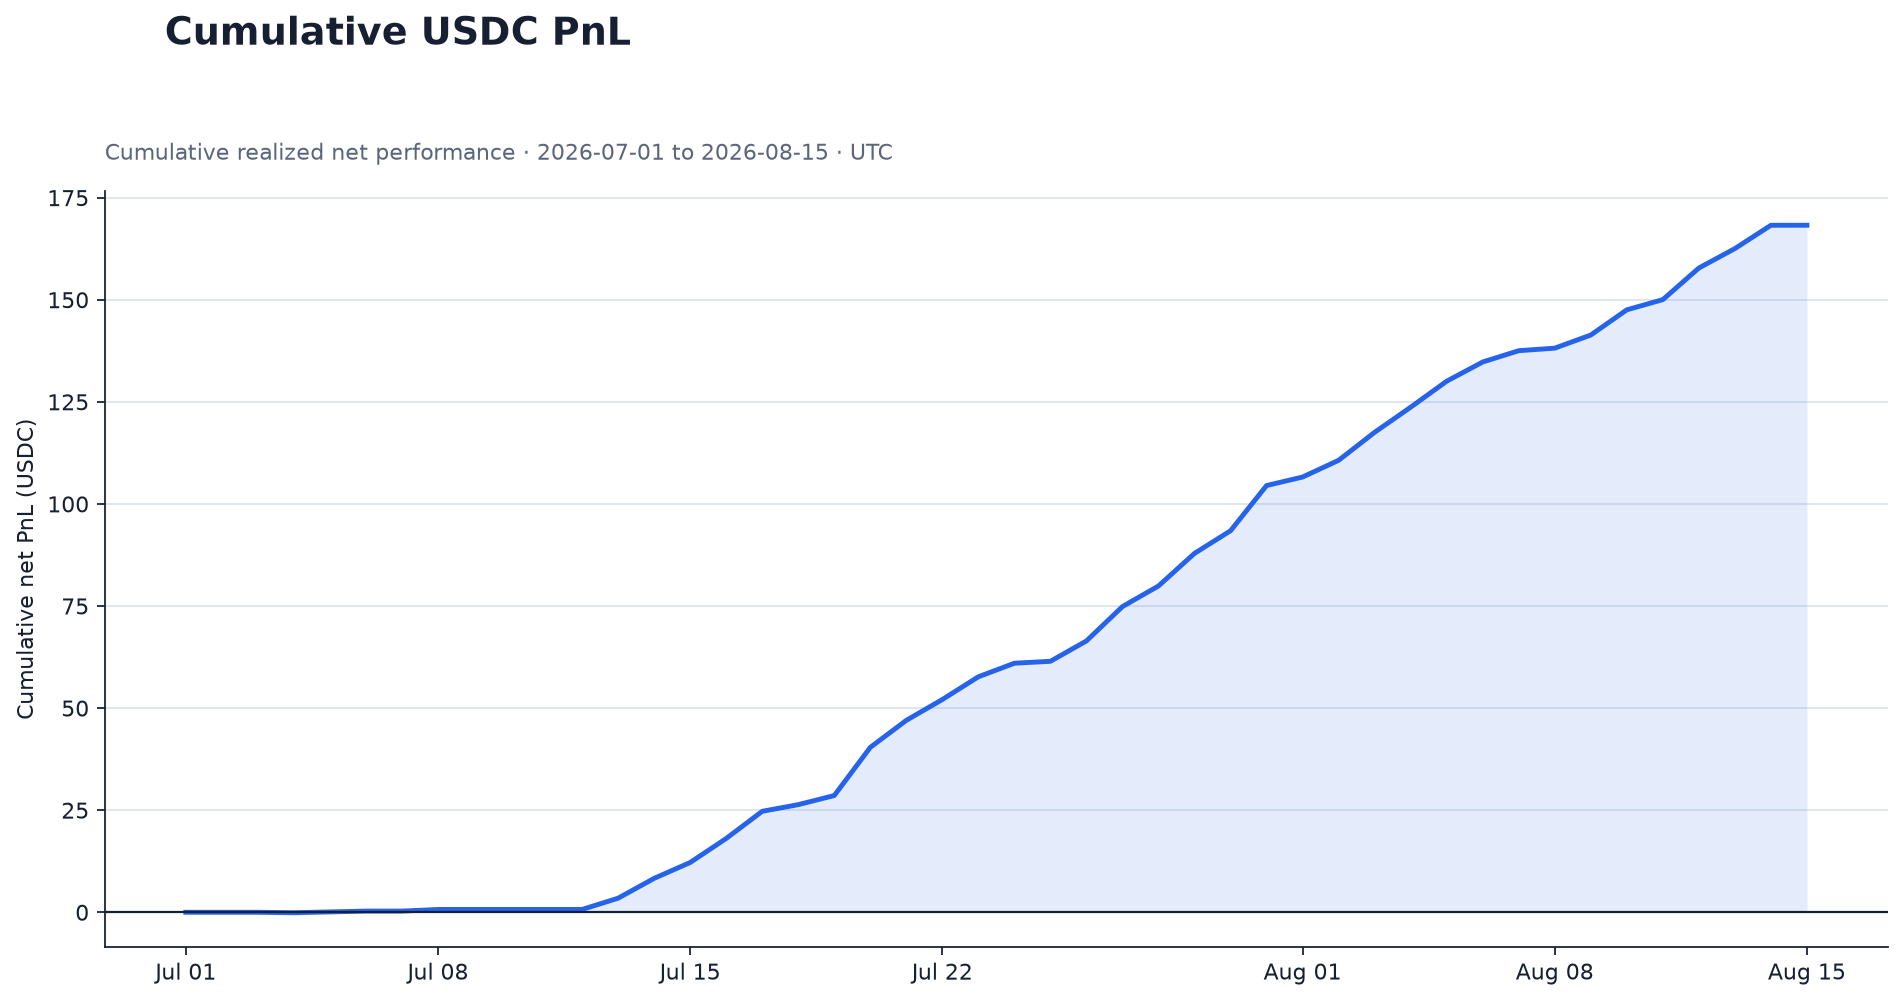
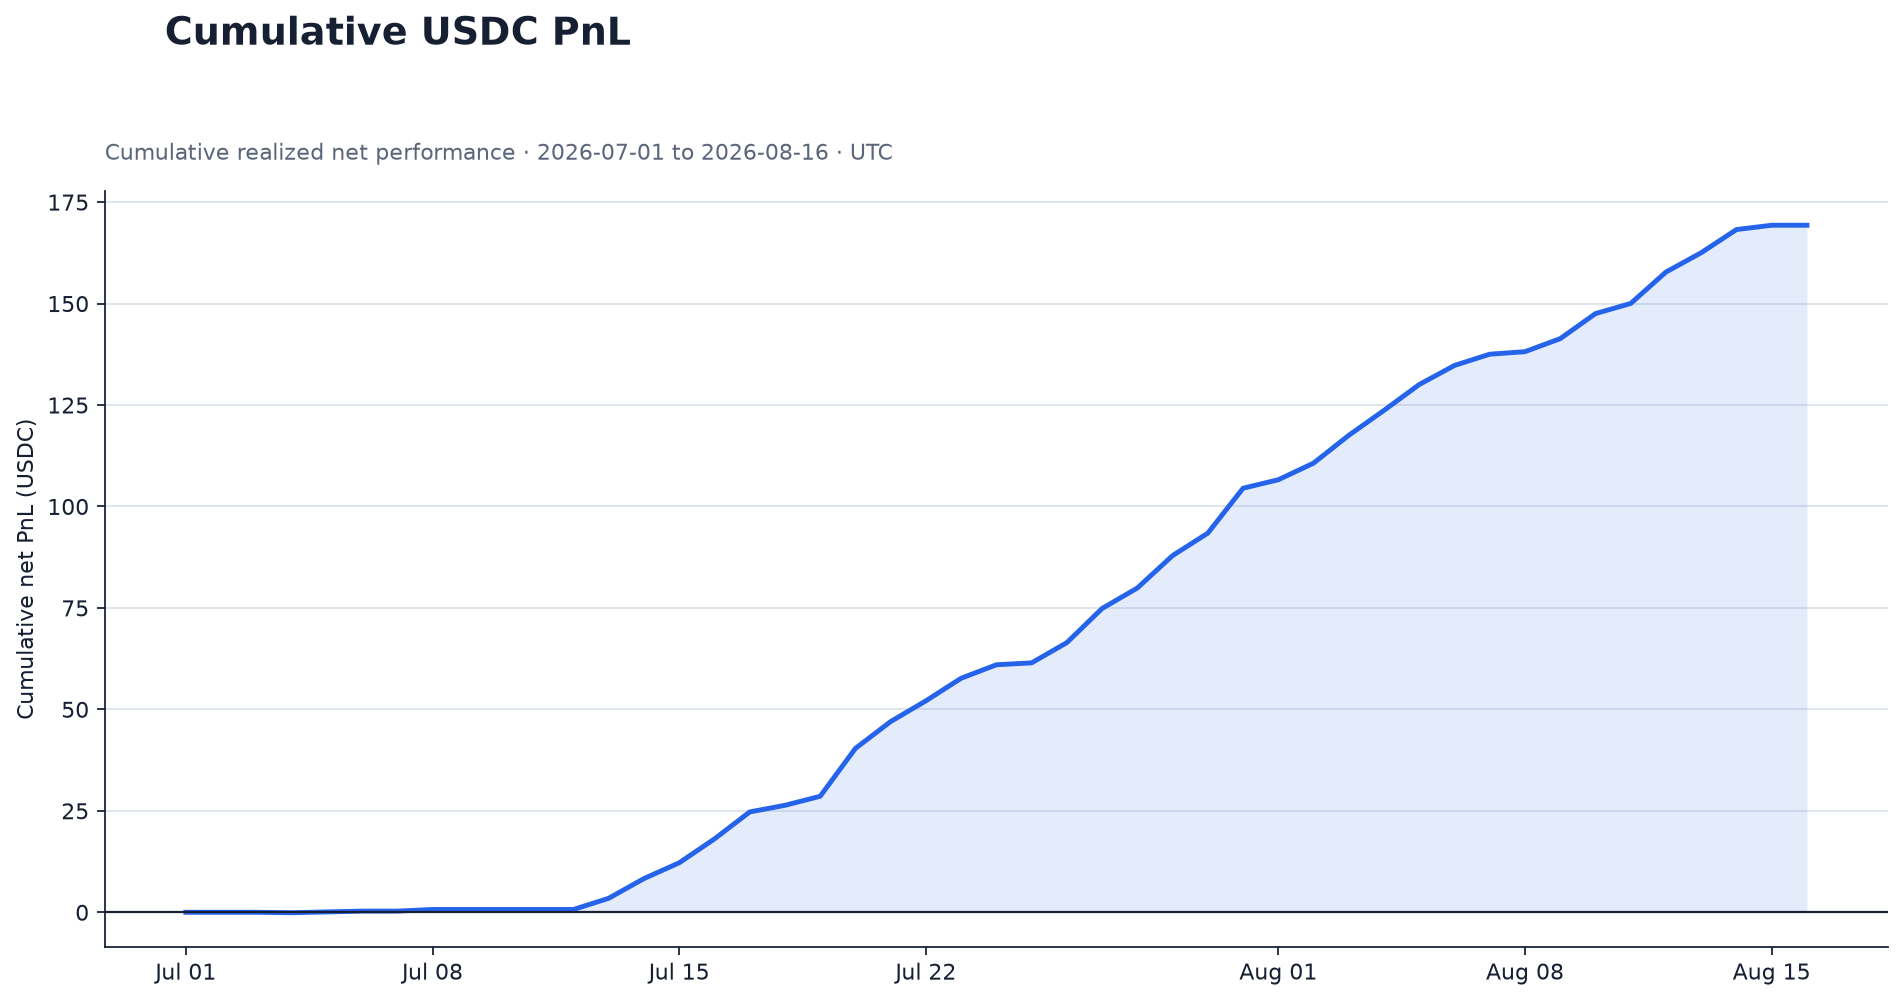
chore: update USDC performance

diff --git a/reports/performance_summary.md b/reports/performance_summary.md
@@ -1,7 +1,7 @@
 # Performance Summary
 
-Generated at: **2026-08-15T00:10:07Z**<br>
-Coverage: **2026-07-01 to 2026-08-15 (UTC)**<br>
+Generated at: **2026-08-16T00:10:09Z**<br>
+Coverage: **2026-07-01 to 2026-08-16 (UTC)**<br>
 Scope: **Daily USDC USD-M Futures realized performance**
 
 Absolute account values are not published. USD-M Futures transfers are excluded from trading return.
@@ -9,23 +9,23 @@ Sharpe and Sortino use private total daily returns including unrealized PnL; unr
 
 | Metric | Value |
 |---|---:|
-| Cumulative Return | 3.78% |
-| Latest Daily Return | 0.00% |
-| Annualized Return | 37.06% |
-| Annualized Volatility | 1.29% |
-| Sharpe Ratio | 6.283070 |
-| Sortino Ratio | 11.254884 |
+| Cumulative Return | 3.81% |
+| Latest Daily Return | -0.00% |
+| Annualized Return | 36.33% |
+| Annualized Volatility | 1.28% |
+| Sharpe Ratio | 6.220562 |
+| Sortino Ratio | 11.185250 |
 | Maximum Drawdown | -0.01% |
-| Calmar Ratio | 4056.982186 |
-| Win Rate | 97.37% |
-| Profit Factor | 1536.827400 |
-| Total Realized Pnl Usdc | 166.657999 |
+| Calmar Ratio | 3977.861127 |
+| Win Rate | 94.87% |
+| Profit Factor | 1526.780230 |
+| Total Realized Pnl Usdc | 167.708599 |
 | Total Commission Usdc | -0.075227 |
-| Total Funding Fee Usdc | 1.670714 |
-| Total Net Pnl Usdc | 168.253485 |
-| Number Of Trading Days | 38 |
-| Number Of Trades | 1179 |
-| Valid Return Days | 43 |
+| Total Funding Fee Usdc | 1.676480 |
+| Total Net Pnl Usdc | 169.309851 |
+| Number Of Trading Days | 39 |
+| Number Of Trades | 1188 |
+| Valid Return Days | 44 |
 | Excluded Return Days | 3 |
 | Annualization Factor | 365 |
 
